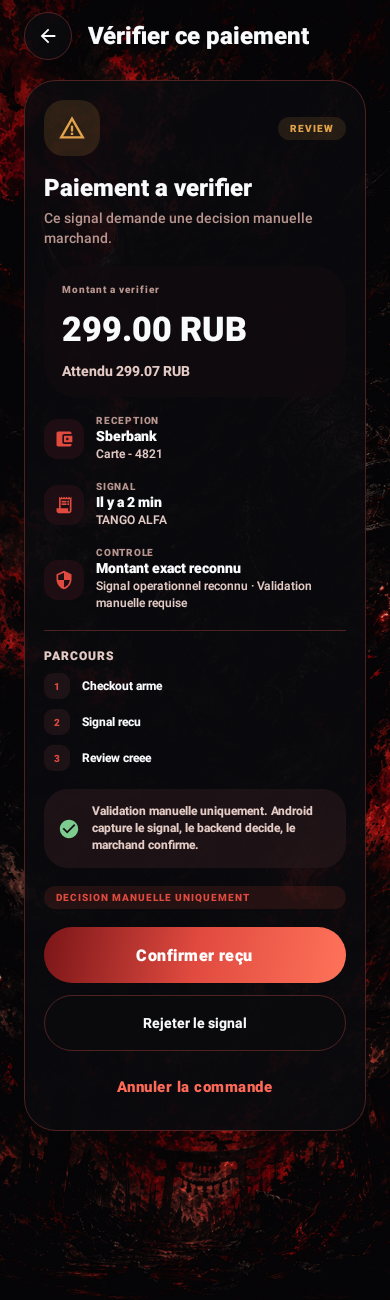
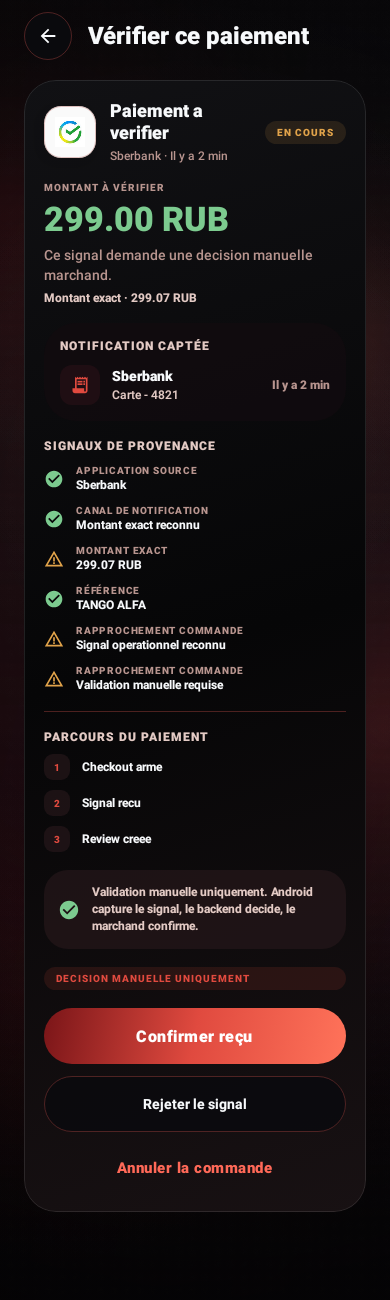
feat(android-ui): redesign payment-review provenance screen toward Stitch mock
Restyle PremiumPaymentDetailScreen toward design/stitch/13-revue-provenance.png:
rail/bank logo + verdict headline + decision chip, received amount in success
green, captured-notification panel, provenance verification check-rows (with
the gate reasons preserved verbatim), backend-score confidence bar, and the
payment timeline. All confirm/reject/decision callbacks remain wired unchanged.

diff --git a/apps/android-receiver/android/app/src/main/java/com/swimpay/receiver/ui/premium/PremiumReviewScreens.kt b/apps/android-receiver/android/app/src/main/java/com/swimpay/receiver/ui/premium/PremiumReviewScreens.kt
@@ -22,7 +22,6 @@ import androidx.compose.foundation.shape.RoundedCornerShape
 import androidx.compose.material.icons.Icons
 import androidx.compose.material.icons.automirrored.filled.ArrowBack
 import androidx.compose.material.icons.automirrored.filled.ReceiptLong
-import androidx.compose.material.icons.filled.AccountBalanceWallet
 import androidx.compose.material.icons.filled.CheckCircle
 import androidx.compose.material.icons.filled.CreditCard
 import androidx.compose.material.icons.filled.GridView
@@ -413,6 +412,14 @@ private fun PaymentReviewCheckoutCard(
     val reference = state.summaryValue("Référence", "Reference")
     val signalTime = state.summaryValue("Signal reçu", "Signal recu")
     val risk = state.summaryValue("Risque")
+    val score = state.summaryValue("Score")
+
+    val verdict = paymentReviewVerdict(state, expectedAmount, detectedAmount)
+    val heroAmount = detectedAmount.ifBlank { expectedAmount.ifBlank { "—" } }
+    val displayBank = bank.ifBlank { language.ui("Décision manuelle marchand") }
+    val payerLine = listOf(displayBank, signalTime)
+        .filter { it.isNotBlank() }
+        .joinToString(separator = " · ")
 
     LiquidGlassCard(
         modifier = Modifier.fillMaxWidth(),
@@ -420,30 +427,49 @@ private fun PaymentReviewCheckoutCard(
         color = PremiumColors.Surface
     ) {
         Column(Modifier.padding(20.dp), verticalArrangement = Arrangement.spacedBy(18.dp)) {
+            // Verdict banner: rail/bank logo + verdict headline + decision chip.
             Row(verticalAlignment = Alignment.CenterVertically, horizontalArrangement = Arrangement.spacedBy(14.dp)) {
-                Box(
-                    Modifier
-                        .size(56.dp)
-                        .background(PremiumColors.Warning.copy(alpha = 0.14f), RoundedCornerShape(PremiumRadius.Tile)),
-                    contentAlignment = Alignment.Center
-                ) {
-                    Icon(
-                        imageVector = Icons.Default.WarningAmber,
-                        contentDescription = null,
-                        tint = PremiumColors.Warning,
-                        modifier = Modifier.size(28.dp)
+                PremiumBankLogo(
+                    bankProfileId = reviewBankProfileId(bank),
+                    displayName = bank.ifBlank { "Bank" },
+                    size = 52.dp
+                )
+                Column(Modifier.weight(1f), verticalArrangement = Arrangement.spacedBy(4.dp)) {
+                    Text(
+                        text = language.ui(state.statusTitle),
+                        color = PremiumColors.Ink,
+                        fontSize = 18.sp,
+                        fontWeight = FontWeight.Black,
+                        lineHeight = 22.sp
                     )
+                    if (payerLine.isNotBlank()) {
+                        Text(
+                            text = payerLine,
+                            color = PremiumColors.SoftText,
+                            fontSize = PremiumType.Caption,
+                            fontWeight = FontWeight.SemiBold,
+                            lineHeight = 16.sp
+                        )
+                    }
                 }
-                Spacer(Modifier.weight(1f))
-                StatusChip(language.ui("Review"), StatusTone.Warning)
+                StatusChip(language.ui(verdict.chipLabel), verdict.tone)
             }
+
+            // Hero: received amount in success green + verdict explanation.
             Column(verticalArrangement = Arrangement.spacedBy(6.dp)) {
                 Text(
-                    text = language.ui(state.statusTitle),
-                    color = PremiumColors.Ink,
-                    fontSize = 24.sp,
+                    text = language.ui("Montant à vérifier").uppercase(),
+                    color = PremiumColors.SoftText,
+                    fontSize = PremiumType.Micro,
                     fontWeight = FontWeight.Black,
-                    lineHeight = 28.sp
+                    letterSpacing = 1.sp
+                )
+                Text(
+                    text = heroAmount,
+                    color = PremiumColors.Success,
+                    fontSize = 34.sp,
+                    fontWeight = FontWeight.Black,
+                    lineHeight = 38.sp
                 )
                 Text(
                     text = language.ui(state.statusText),
@@ -452,62 +478,120 @@ private fun PaymentReviewCheckoutCard(
                     lineHeight = 20.sp,
                     fontWeight = FontWeight.SemiBold
                 )
-            }
-
-            Column(
-                Modifier
-                    .fillMaxWidth()
-                    .background(PremiumColors.PanelTint, RoundedCornerShape(PremiumRadius.CardLarge))
-                    .padding(18.dp),
-                verticalArrangement = Arrangement.spacedBy(14.dp)
-            ) {
-                Text(
-                    text = language.ui("Montant a verifier"),
-                    color = PremiumColors.SoftText,
-                    fontSize = PremiumType.Micro,
-                    fontWeight = FontWeight.Black,
-                    letterSpacing = 1.sp
-                )
-                Text(
-                    text = detectedAmount.ifBlank { expectedAmount.ifBlank { "—" } },
-                    color = PremiumColors.Ink,
-                    fontSize = 34.sp,
-                    fontWeight = FontWeight.Black,
-                    lineHeight = 38.sp
-                )
                 if (expectedAmount.isNotBlank() && expectedAmount != detectedAmount) {
                     Text(
-                        text = "${language.ui("Attendu")} $expectedAmount",
+                        text = "${language.ui("Montant exact")} · $expectedAmount",
                         color = PremiumColors.Muted,
-                        fontSize = PremiumType.Body,
+                        fontSize = PremiumType.Caption,
                         fontWeight = FontWeight.Bold
                     )
                 }
             }
 
-            PaymentReviewRow(
-                icon = Icons.Default.AccountBalanceWallet,
-                label = language.ui("Reception"),
-                primary = bank.ifBlank { language.ui("Banque non renseignee") },
-                secondary = receivingMethod
-            )
-            PaymentReviewRow(
-                icon = Icons.AutoMirrored.Filled.ReceiptLong,
-                label = language.ui("Signal"),
-                primary = signalTime.ifBlank { language.ui("Signal operationnel") },
-                secondary = reference.ifBlank { state.reviewId }
-            )
-            PaymentReviewRow(
-                icon = Icons.Default.Security,
-                label = language.ui("Controle"),
-                primary = risk.ifBlank { language.ui("Decision manuelle marchand") },
-                secondary = state.reasons.joinToString(separator = " · ") { language.ui(it) }
-            )
+            // Captured notification panel.
+            Column(
+                Modifier
+                    .fillMaxWidth()
+                    .background(PremiumColors.PanelTint, RoundedCornerShape(PremiumRadius.CardLarge))
+                    .padding(16.dp),
+                verticalArrangement = Arrangement.spacedBy(12.dp)
+            ) {
+                SectionLabel(language.ui("NOTIFICATION CAPTÉE"))
+                Row(verticalAlignment = Alignment.CenterVertically, horizontalArrangement = Arrangement.spacedBy(12.dp)) {
+                    Box(
+                        Modifier
+                            .size(40.dp)
+                            .background(PremiumColors.IconTile, RoundedCornerShape(12.dp)),
+                        contentAlignment = Alignment.Center
+                    ) {
+                        Icon(
+                            imageVector = Icons.AutoMirrored.Filled.ReceiptLong,
+                            contentDescription = null,
+                            tint = PremiumColors.Blue,
+                            modifier = Modifier.size(20.dp)
+                        )
+                    }
+                    Column(Modifier.weight(1f), verticalArrangement = Arrangement.spacedBy(2.dp)) {
+                        Text(
+                            text = displayBank,
+                            color = PremiumColors.Ink,
+                            fontSize = PremiumType.Body,
+                            fontWeight = FontWeight.Black,
+                            lineHeight = 18.sp
+                        )
+                        Text(
+                            text = receivingMethod.ifBlank { reference.ifBlank { state.reviewId } },
+                            color = PremiumColors.Muted,
+                            fontSize = PremiumType.Caption,
+                            fontWeight = FontWeight.SemiBold,
+                            lineHeight = 16.sp
+                        )
+                    }
+                    if (signalTime.isNotBlank()) {
+                        Text(
+                            text = signalTime,
+                            color = PremiumColors.SoftText,
+                            fontSize = PremiumType.Caption,
+                            fontWeight = FontWeight.Black
+                        )
+                    }
+                }
+            }
 
+            // Provenance verification signals.
+            Column(verticalArrangement = Arrangement.spacedBy(12.dp)) {
+                SectionLabel(language.ui("SIGNAUX DE PROVENANCE"))
+                ProvenanceCheckRow(language.ui("Application source"), displayBank, verified = bank.isNotBlank())
+                ProvenanceCheckRow(
+                    language.ui("Canal de notification"),
+                    risk.ifBlank { language.ui("Reconnu") },
+                    verified = true
+                )
+                ProvenanceCheckRow(
+                    language.ui("Montant exact"),
+                    expectedAmount.ifBlank { detectedAmount },
+                    verified = expectedAmount.isBlank() || expectedAmount == detectedAmount
+                )
+                if (reference.isNotBlank()) {
+                    ProvenanceCheckRow(language.ui("Référence"), reference, verified = true)
+                }
+                // Confidence reasons (gate verdict rationale) preserved verbatim.
+                state.reasons.forEach { reason ->
+                    ProvenanceCheckRow(
+                        language.ui("Rapprochement commande"),
+                        language.ui(reason),
+                        verified = verdict.tone == StatusTone.Success
+                    )
+                }
+            }
+
+            // Confidence bar derived from the backend score when present.
+            paymentReviewConfidence(score)?.let { fraction ->
+                Column(verticalArrangement = Arrangement.spacedBy(8.dp)) {
+                    Row(verticalAlignment = Alignment.CenterVertically) {
+                        Text(
+                            text = language.ui("Confiance"),
+                            modifier = Modifier.weight(1f),
+                            color = PremiumColors.Ink,
+                            fontSize = PremiumType.Body,
+                            fontWeight = FontWeight.Black
+                        )
+                        Text(
+                            text = "${(fraction * 100).toInt()} %",
+                            color = PremiumColors.Success,
+                            fontSize = PremiumType.Body,
+                            fontWeight = FontWeight.Black
+                        )
+                    }
+                    ConfidenceBar(fraction)
+                }
+            }
+
+            // Payment timeline (parcours).
             if (state.timeline.isNotEmpty()) {
                 Box(Modifier.fillMaxWidth().height(1.dp).background(PremiumColors.Line))
                 Column(verticalArrangement = Arrangement.spacedBy(10.dp)) {
-                    SectionLabel(language.ui("Parcours"))
+                    SectionLabel(language.ui("PARCOURS DU PAIEMENT"))
                     state.timeline.forEachIndexed { index, label ->
                         PaymentReviewTimelineItem(index + 1, language.ui(label))
                     }
@@ -553,23 +637,41 @@ private fun PaymentReviewCheckoutCard(
     }
 }
 
+private data class PaymentReviewVerdict(val chipLabel: String, val tone: PremiumTone)
+
+private fun paymentReviewVerdict(
+    state: PremiumPaymentDetailUiState,
+    expectedAmount: String,
+    detectedAmount: String
+): PaymentReviewVerdict {
+    val signal = (state.statusTitle + " " + state.actionMessage).lowercase()
+    return when {
+        signal.contains("rejet") || signal.contains("annul") || signal.contains("refus") ->
+            PaymentReviewVerdict("Rejeter le signal", StatusTone.Danger)
+        signal.contains("confirm") || signal.contains("validé") || signal.contains("traité") ->
+            PaymentReviewVerdict("Confirmer reçu", StatusTone.Success)
+        else -> PaymentReviewVerdict("En cours", StatusTone.Warning)
+    }
+}
+
+private fun paymentReviewConfidence(scoreValue: String): Float? {
+    val digits = scoreValue.filter { it.isDigit() }
+    if (digits.isBlank()) return null
+    val percent = digits.toIntOrNull() ?: return null
+    return (percent.coerceIn(0, 100)) / 100f
+}
+
 @Composable
-private fun PaymentReviewRow(
-    icon: ImageVector,
-    label: String,
-    primary: String,
-    secondary: String
-) {
+private fun ProvenanceCheckRow(label: String, value: String, verified: Boolean) {
+    val tint = if (verified) PremiumColors.Success else PremiumColors.Warning
     Row(verticalAlignment = Alignment.CenterVertically, horizontalArrangement = Arrangement.spacedBy(12.dp)) {
-        Box(
-            Modifier
-                .size(40.dp)
-                .background(PremiumColors.IconTile, RoundedCornerShape(14.dp)),
-            contentAlignment = Alignment.Center
-        ) {
-            Icon(icon, contentDescription = null, tint = PremiumColors.Blue, modifier = Modifier.size(20.dp))
-        }
-        Column(Modifier.weight(1f), verticalArrangement = Arrangement.spacedBy(2.dp)) {
+        Icon(
+            imageVector = if (verified) Icons.Default.CheckCircle else Icons.Default.WarningAmber,
+            contentDescription = null,
+            tint = tint,
+            modifier = Modifier.size(20.dp)
+        )
+        Column(Modifier.weight(1f), verticalArrangement = Arrangement.spacedBy(1.dp)) {
             Text(
                 text = label.uppercase(),
                 color = PremiumColors.SoftText,
@@ -577,22 +679,33 @@ private fun PaymentReviewRow(
                 fontWeight = FontWeight.Black,
                 letterSpacing = 0.8.sp
             )
-            Text(
-                text = primary,
-                color = PremiumColors.Ink,
-                fontSize = PremiumType.Body,
-                fontWeight = FontWeight.Black
-            )
-            if (secondary.isNotBlank()) {
+            if (value.isNotBlank()) {
                 Text(
-                    text = secondary,
-                    color = PremiumColors.Muted,
+                    text = value,
+                    color = PremiumColors.Ink,
                     fontSize = PremiumType.Caption,
-                    fontWeight = FontWeight.SemiBold,
-                    lineHeight = 17.sp
+                    fontWeight = FontWeight.Bold,
+                    lineHeight = 16.sp
                 )
             }
         }
+    }
+}
+
+@Composable
+private fun ConfidenceBar(fraction: Float) {
+    Box(
+        Modifier
+            .fillMaxWidth()
+            .height(8.dp)
+            .background(PremiumColors.NeutralChip, RoundedCornerShape(PremiumRadius.Pill))
+    ) {
+        Box(
+            Modifier
+                .fillMaxWidth(fraction.coerceIn(0f, 1f))
+                .fillMaxHeight()
+                .background(PremiumColors.Success, RoundedCornerShape(PremiumRadius.Pill))
+        )
     }
 }
 

diff --git a/apps/android-receiver/android/app/src/main/java/com/swimpay/receiver/ui/premium/PremiumLocalizedCopy.kt b/apps/android-receiver/android/app/src/main/java/com/swimpay/receiver/ui/premium/PremiumLocalizedCopy.kt
@@ -172,6 +172,19 @@ data class PremiumLocalizedCopy(
             LocalizedText("Confirmer reçu", "Confirm received", "Подтвердить получение"),
             LocalizedText("Rejeter le signal", "Reject signal", "Отклонить сигнал"),
             LocalizedText("Annuler la commande", "Cancel order", "Отменить заказ"),
+            LocalizedText("En cours", "In progress", "В процессе"),
+            LocalizedText("Montant à vérifier", "Amount to review", "Сумма к проверке"),
+            LocalizedText("NOTIFICATION CAPTÉE", "CAPTURED NOTIFICATION", "ПОЛУЧЕННОЕ УВЕДОМЛЕНИЕ"),
+            LocalizedText("SIGNAUX DE PROVENANCE", "PROVENANCE SIGNALS", "СИГНАЛЫ ПРОИСХОЖДЕНИЯ"),
+            LocalizedText("Application source", "Source app", "Приложение-источник"),
+            LocalizedText("Canal de notification", "Notification channel", "Канал уведомления"),
+            LocalizedText("Montant exact", "Exact amount", "Точная сумма"),
+            LocalizedText("Expéditeur", "Sender", "Отправитель"),
+            LocalizedText("Référence", "Reference", "Ссылка"),
+            LocalizedText("Rapprochement commande", "Order match", "Сопоставление заказа"),
+            LocalizedText("Reconnu", "Recognized", "Распознано"),
+            LocalizedText("Confiance", "Confidence", "Уверенность"),
+            LocalizedText("Décision manuelle marchand", "Manual merchant decision", "Ручное решение продавца"),
             LocalizedText("Moyens de réception", "Receiving methods", "Способы получения"),
             LocalizedText("Ajoutez les cartes ou numéros que vos clients utiliseront pour vous payer.", "Add the cards or phone numbers your customers will use to pay you.", "Добавьте карты или номера, по которым клиенты будут платить."),
             LocalizedText("Les informations complètes ne sont jamais envoyées dans les webhooks.", "Full details are never sent in webhooks.", "Полные данные никогда не отправляются в вебхуки."),
